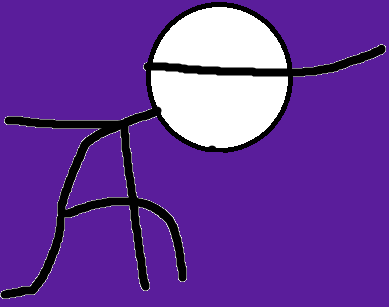
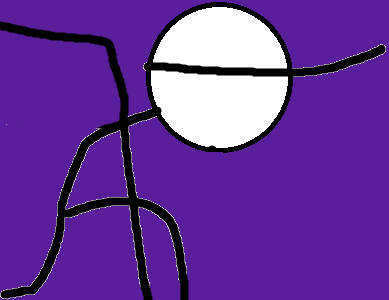
añadido algunos modelos

diff --git a/js/Skater.js b/js/Skater.js
@@ -26,6 +26,8 @@ class Skater {
     this.node.style.top = `${this.y}px`;
     this.node.style.left = `${this.x}px`;
   }
+
+  // GRAVITY
   fallDown() {
     if (skaterCrashed === false) {
       if (
@@ -43,6 +45,9 @@ class Skater {
         this.skaterLongJumping = false;
       } else if (this.y >= 250) {
         this.y = 250;
+        this.node.src = "./images/Skater.png";
+        this.h = 100;
+        this.node.style.height = `${this.h}px`;
 
         this.jumpSpeed = 0;
         this.skaterJumping = false;
@@ -51,6 +56,7 @@ class Skater {
     }
   }
 
+  //GRINDING MECHANICS
   startGrinding(rail) {
     this.node.src = "./images/Skater-Grinding.png";
     this.skaterGrinding = true;
@@ -69,16 +75,23 @@ class Skater {
     this.skaterGrinding = false;
     this.node.src = "./images/Skater.png";
   }
-
+  // JUMPS
   jump(type) {
     if (this.skaterJumping === false && this.skaterLongJumping === false) {
       if (type === "short") {
-        
+        this.node.src = "./images/Skater-jumping.png";
+
+        this.node.style.height = `${this.h}px`;
+
         this.jumpSpeed = jumpMomentum;
         this.skaterJumping = true;
         this.skaterGrinding = false;
         this.node.style.top = `${this.y}px`;
       } else if (type === "long") {
+        this.node.src = "./images/Skater-longjumping.png";
+        this.h = 100;
+        this.node.style.height = `${this.h}px`;
+
         this.jumpSpeed = jumpMomentum * 1.5;
         this.skaterLongJumping = true;
         this.skaterGrinding = false;
@@ -86,7 +99,7 @@ class Skater {
       }
     }
   }
-
+  // CROUCH MECHANICS
   crouch() {
     if (
       this.skaterCrouching === false &&

diff --git a/js/Skateboard.js b/js/Skateboard.js
@@ -22,6 +22,7 @@ class Skateboard {
     this.node.style.top = `${this.y}px`;
     this.node.style.left = `${this.x}px`;
   }
+  //GRAVITY
   fallDownSkate() {
     if (skateboardCrashed === false) {
       if (this.skateJumping === true && this.skateboardGrinding === false) {
@@ -39,7 +40,7 @@ class Skateboard {
       }
     }
   }
-
+  // GRINDING MECHANICS
   startGrinding(rail) {
     this.node.src = "./images/skateboard-grinding.png";
     this.skateboardGrinding = true;
@@ -57,6 +58,8 @@ class Skateboard {
     this.skateboardGrinding = false;
     this.node.src = "./images/Skateboard.png";
   }
+
+  //JUMPING MECHANICS
   skateboardGrounded() {
     this.canItJump = false;
   }
@@ -70,13 +73,14 @@ class Skateboard {
       this.canItJump === true &&
       skater.skaterLongJumping === false
     ) {
-      
       this.jumpSpeed = skateJumpMomentum;
       this.skateJumping = true;
-      this.skateboardGrinding = false
+      this.skateboardGrinding = false;
       this.node.style.top = `${this.y}px`;
     }
   }
+
+  // SKATE CRASHED :(
   lostSkate() {
     if (skateboardCrashed === true) {
       this.canItJump = false;

diff --git a/js/main.js b/js/main.js
@@ -32,7 +32,6 @@ let gameSpeed;
 // Game Objects
 let skater;
 let skateboard;
-let rail;
 
 let obstArr = [];
 
@@ -59,7 +58,7 @@ function startGame() {
 
   skater = new Skater();
   skateboard = new Skateboard();
-  rail = new Rail();
+  
 
   canItJump = true;
   canSkaterCrouch = true;
